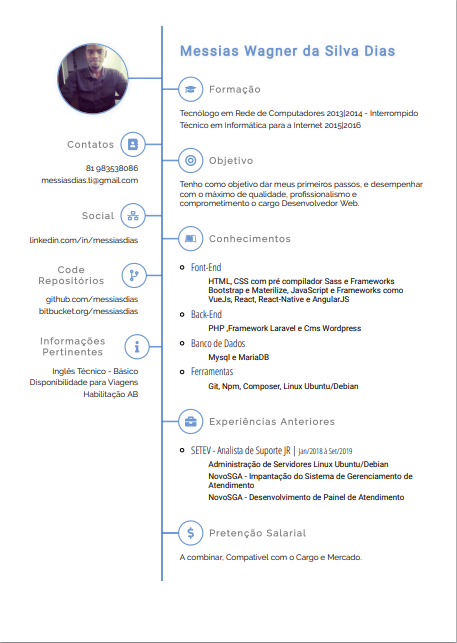
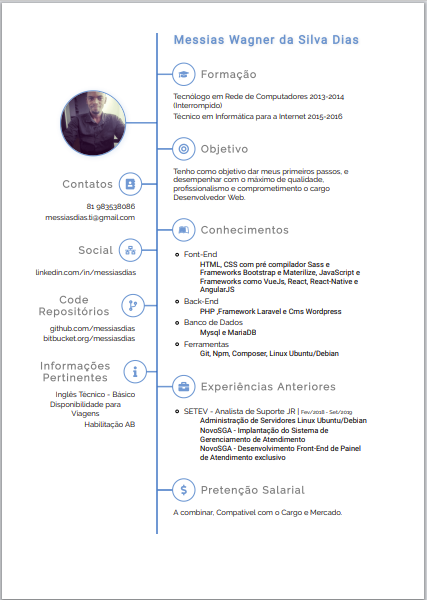
14-04-2020 18:24

Changed region(s): [[0.0, 0.0, 1.0, 1.0]]

diff --git a/README.md b/README.md
@@ -6,3 +6,6 @@ Desenvolvido com Html Css/Sass e Fontawesome.
 
 ![Screenshot](img/screenshot.png?raw=true "Curriculum")
 
+
+![Screenshot](img/screenshot2.png?raw=true "Curriculum")
+
